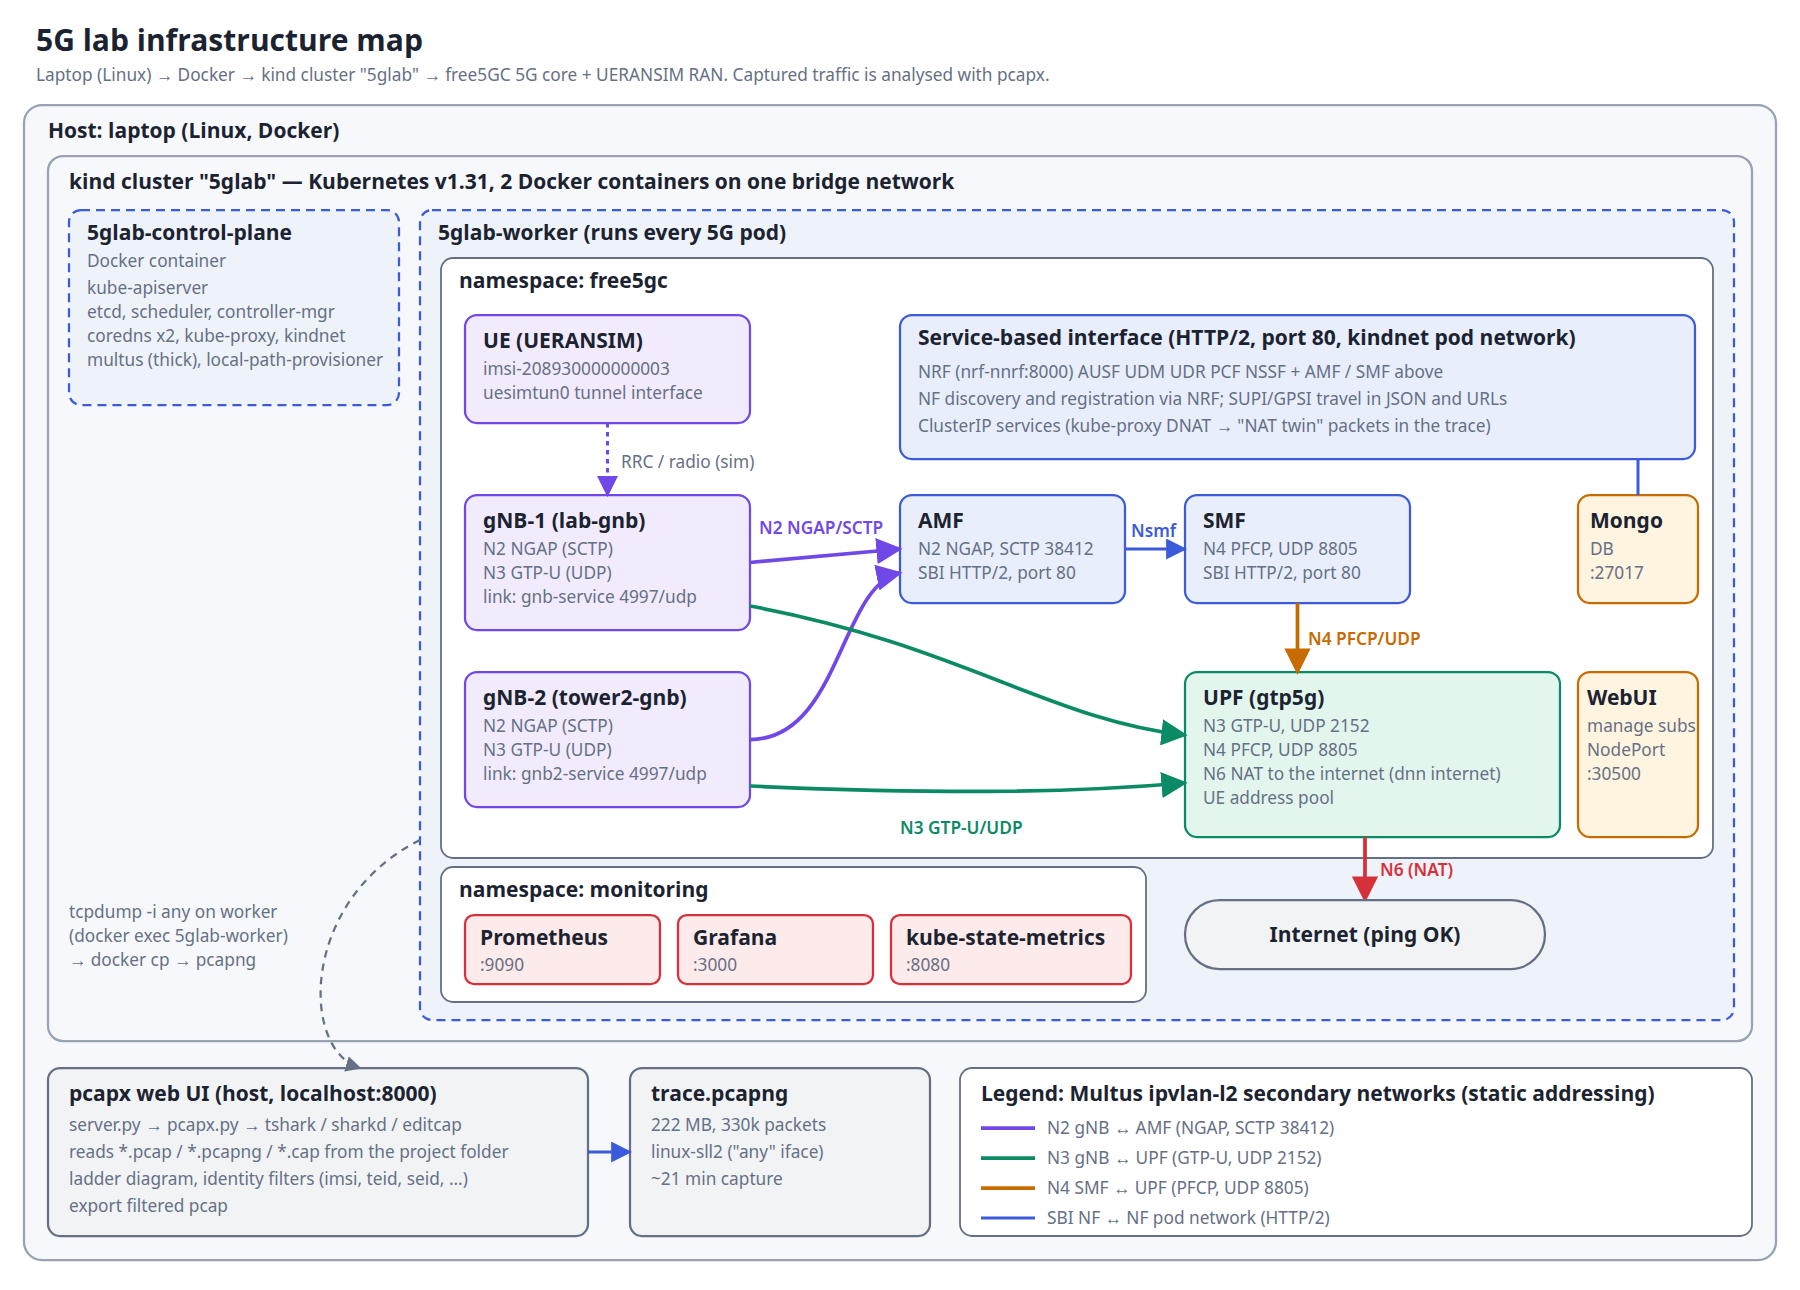
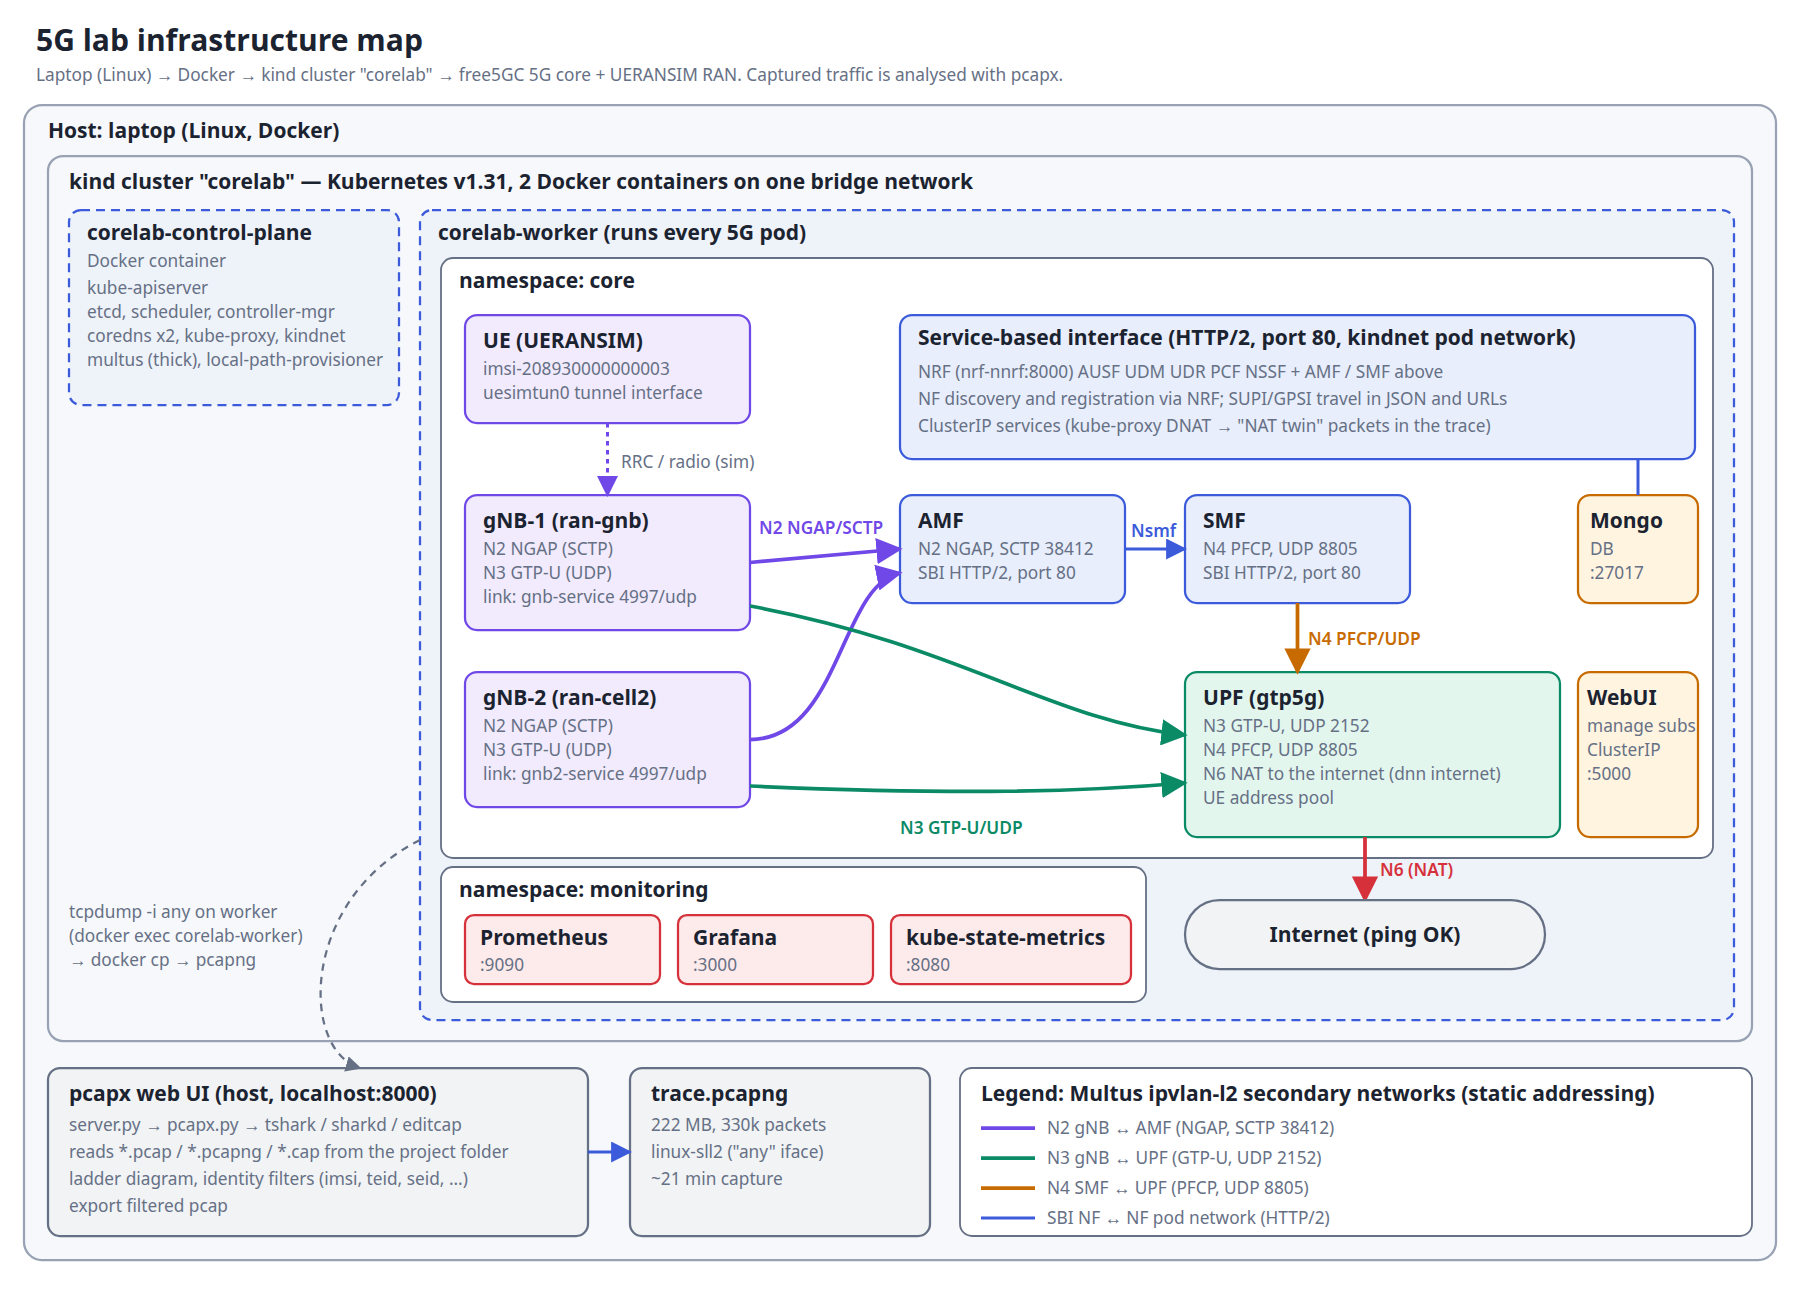
comm

diff --git a/README.md b/README.md
@@ -8,14 +8,18 @@ The captures come from a local 5G lab (free5GC + UERANSIM on a kind cluster). Th
 
 ![Infrastructure map](infra_map.png)
 
-Vector version: [`infra_map.svg`](infra_map.svg). The map contains no IP addresses. Every address in this README and
-in the screenshots is a dummy from the documentation ranges (`192.0.2.0/24`, `198.51.100.0/24`, `203.0.113.0/24`,
-`198.18.0.0/15`), not a real one.
+Vector version: [`infra_map.svg`](infra_map.svg).
+
+IP addresses and pod / deployment names in this README are the same as in the 5G lab project
+(`../5g lab/lab/README.md`, section *Addressing & exposure*): cluster `corelab`, namespace `core`, Helm releases
+`core` (pods `core-free5gc-<nf>-*`), `ran` (pods `ran-gnb-*`, `ran-ue-*`) and `ran-cell2` (second gNB).
+The commands below can be copied as they are. The only exception is the screenshots, where the IP addresses are
+replaced by dummy documentation-range addresses (`192.0.2.0/24`).
 
 ## Screenshots
 
 The captures below are a 222 MB, 330k-packet lab trace imported through the UI. IP addresses in the screenshots
-are replaced by dummy documentation-range addresses.
+are replaced by dummy documentation-range addresses (`192.0.2.x`), unlike the rest of this README.
 
 **1. Import.** Press **Import pcap…** (or drop the file on the page). The file is stored, selected in the drop-down,
 and ready to run.
@@ -95,7 +99,7 @@ Names must be plain file names (no sub-folders): the server rejects anything wit
 
 ### 2. Capture fresh traffic from the lab
 
-The lab runs in two Docker containers (`5glab-worker`, `5glab-control-plane`). Every 5G pod is on the worker,
+The lab runs in two Docker containers (`corelab-worker`, `corelab-control-plane`). Every 5G pod is on the worker,
 and the worker has `tcpdump`. Capturing on interface `any` there sees SBI (HTTP/2), N2 (NGAP), N3 (GTP-U),
 N4 (PFCP), MongoDB and the Kubernetes NAT (before/after kube-proxy) in one file.
 
@@ -103,11 +107,11 @@ N4 (PFCP), MongoDB and the Kubernetes NAT (before/after kube-proxy) in one file.
 cd /home/hele/Documents/Claude/whireshark
 
 # 60 second capture streamed straight to a file on the host
-docker exec 5glab-worker timeout -s INT 60 tcpdump -i any -s 0 -U -w - > lab_$(date +%Y%m%d_%H%M).pcap
+docker exec corelab-worker timeout -s INT 60 tcpdump -i any -s 0 -U -w - > lab_$(date +%Y%m%d_%H%M).pcap
 ```
 
 - While it runs, generate the traffic you want to look at, for example restart the UE so it registers and opens a
-  PDU session: `kubectl -n free5gc rollout restart deploy/ueransim-lab-ue`.
+  PDU session: `kubectl -n core rollout restart deploy/ran-ue`.
 - Stream to stdout (`-w -`) as above instead of writing a file in the node and using `docker cp`.
   The node's `/tmp` is a tmpfs, and `docker cp` cannot read it (`Could not find the file /tmp/...`).
 - Narrow the capture on the wire to keep files small, for example only the 5G control/user-plane protocols:
@@ -121,7 +125,7 @@ Most NF images have no `tcpdump`, so attach a debug container that shares the po
 (standard `kubectl debug` usage, not tried in this lab):
 
 ```bash
-kubectl -n free5gc debug -it deploy/free5gc-lab-free5gc-smf-smf --image=nicolaka/netshoot --target=smf -- \
+kubectl -n core debug -it deploy/core-free5gc-smf-smf --image=nicolaka/netshoot --target=smf -- \
   tcpdump -i any -s 0 -U -w - > smf.pcap
 ```
 
@@ -134,7 +138,7 @@ about 15 s). Later queries on the same file and pre-filter are instant. To keep 
 
 - Fill the **pre-filter** box in the UI (or `--pre` on the CLI) with a native Wireshark display filter.
   It is applied by `tshark` before parsing, so it is much cheaper than the pcapx filter:
-  `ip.addr==192.0.2.22 or sctp or pfcp or gtp`
+  `ip.addr==10.60.0.1 or sctp or pfcp or gtp`
 - Or cut the file down first:
   ```bash
   editcap -A "2026-09-24 10:11:00" -B "2026-09-24 10:12:00" capture.pcapng slice.pcapng   # time window
@@ -198,25 +202,74 @@ The server only binds to `localhost` and has no authentication. Do not expose it
 
 ## The lab
 
-Kubernetes cluster `5glab` (kind, v1.31): `5glab-control-plane` and `5glab-worker`. Namespaces: `free5gc`
-(NRF, AMF, SMF, UPF, AUSF, UDM, UDR, PCF, NSSF, WebUI, MongoDB, 2× gNB, UE), `monitoring` (Prometheus, Grafana, kube-state-metrics).
+Kubernetes cluster `corelab` (kind, v1.31): `corelab-control-plane` and `corelab-worker`. Namespaces: `core`
+(free5GC NFs from release `core`: NRF, AMF, SMF, UPF, AUSF, UDM, UDR, PCF, NSSF, WebUI, MongoDB; RAN from releases
+`ran` (gNB + UE) and `ran-cell2` (second gNB)), `monitoring` (Prometheus, Grafana, kube-state-metrics).
 
 | Interface | Network | Endpoints |
 |---|---|---|
-| SBI (HTTP/2, port 80) | kindnet pod network `192.0.2.0/24`, ClusterIP `198.51.100.0/24` | all NFs |
-| N2 (NGAP, SCTP 38412) | Multus ipvlan `203.0.113.8/29` | AMF `.9`, gNB-1 `.10`, gNB-2 `.11` |
-| N3 (GTP-U, UDP 2152) | Multus ipvlan `203.0.113.16/29` | UPF `.17`, gNB-2 `.18`, gNB-1 `.20` |
-| N4 (PFCP, UDP 8805) | Multus ipvlan `203.0.113.24/29` | UPF `.25`, SMF `.28` |
-| N6 | Multus ipvlan on the kind bridge | UPF `198.18.0.22`, NAT to the internet, UE pool `198.19.0.0/17` |
+| SBI (HTTP/2, port 80) | Pod CIDR `10.212.0.0/16`, Service (ClusterIP) CIDR `10.213.0.0/16` | all NFs |
+| N2 (NGAP, SCTP 38412) | Multus ipvlan `10.47.60.248/29` | AMF `.249`, gNB (`ran`) `.250`, cell2 gNB (`ran-cell2`) `.251` |
+| N3 (GTP-U, UDP 2152) | Multus ipvlan `10.47.60.232/29` | UPF `.233`, cell2 gNB `.234`, gNB `.236` |
+| N4 (PFCP, UDP 8805) | Multus ipvlan `10.47.60.240/29` | UPF `.241`, SMF `.244` |
+| N9 (ULCL only) | Multus ipvlan `10.47.60.224/29` | |
+| N6 | kind node network `corelab-net` `172.29.40.0/24` | UPF `172.29.40.200`, NAT to the internet, UE pool `10.60.0.0/17` (first UE `10.60.0.1`) |
 
-Handy access: WebUI NodePort `30500` (on the worker `198.18.0.2`), Grafana and Prometheus are ClusterIP
-(`kubectl -n monitoring port-forward svc/grafana 3000`).
+Nodes are `.2` / `.3` on `corelab-net`, gateway `.1`.
+
+Handy access: every Service is ClusterIP (no NodePorts). WebUI, Grafana and Prometheus are reached with
+`./scripts/09-open-grafana.sh` from the 5G lab project, which port-forwards to `127.0.0.1` (WebUI `:5000`,
+Grafana `:3000`, Prometheus `:9090`).
 
 ### Health check
 
 ```bash
-kubectl -n free5gc get pods                                                   # all Running, no restarts climbing
-kubectl -n free5gc logs deploy/ueransim-lab-ue | grep -E "Registration|PDU Session|uesimtun"
-kubectl -n free5gc exec deploy/ueransim-lab-ue -- ping -c 3 -I uesimtun0 <any-public-host>
+kubectl -n core get pods                                                   # all Running, no restarts climbing
+kubectl -n core logs deploy/ran-ue | grep -E "Registration|PDU Session|uesimtun"
+kubectl -n core exec deploy/ran-ue -- ping -c 3 -I uesimtun0 <any-public-host>
 ```
 
+## Troubleshooting: SMF and UPF in CrashLoopBackOff after a reboot
+
+Seen on 2026-09-24 (the lab had been rebooted the day before).
+
+**Symptoms**
+
+```text
+SMF: [ERRO][SMF][PFCP] Failed to listen: listen udp 10.47.60.244:8805: bind: cannot assign requested address
+UPF: UPF Cli Run Error: open Gtp5g: open link: listen: listen udp4 10.47.60.233:2152: bind: cannot assign requested address
+```
+
+**Cause.** N2, N3, N4 and N6 are secondary interfaces attached by Multus when a pod sandbox is created.
+After the host reboot the kubelet recreated the sandboxes with only `eth0` (kindnet); the Multus attach did
+not happen. The pods therefore had no `10.47.60.x` address to bind to. Clues: `kubectl exec ... ip addr` shows only
+`eth0`, and the pod annotation `k8s.v1.cni.cncf.io/network-status` still lists old addresses. AMF was affected too
+(no `n2`), it just did not crash.
+
+**Fix.** Recreate the pods so Multus attaches the interfaces, in this order (core first, RAN after the AMF listens):
+
+```bash
+kubectl -n core rollout restart deploy/core-free5gc-upf-upf deploy/core-free5gc-smf-smf deploy/core-free5gc-amf-amf
+kubectl -n core rollout status  deploy/core-free5gc-amf-amf
+# wait until the AMF log says "Listen on 10.47.60.249:38412", then:
+kubectl -n core delete pod -l component=gnb                                # recreated by their deployments, see gotcha below
+kubectl -n core rollout restart deploy/ran-ue
+```
+
+**Gotchas hit while fixing it**
+
+- **Start order.** gNBs started before the AMF listened, got `SCTP could not connect: Connection refused`, and never
+  retried, so the UE saw only barred cells (`Cell selection failure`). Restart the gNBs after the AMF is up.
+- **Static IPs and rolling updates.** The gNB / UPF pods use fixed ipvlan addresses. A rolling update starts the new
+  pod while the old one still holds the IP, and the new one hangs in `Init` with
+  `failed to add IP addr ... address already in use`. Delete the old pod (or use `kubectl rollout undo`), or better set
+  `strategy: type: Recreate` on those deployments (in the Helm values, so the change is not lost on upgrade).
+
+**Verify.** `SMF` logs `Received PFCP Association Setup Accepted Response from UPF[10.47.60.241]`, the gNBs log
+`NG Setup procedure is successful`, and the UE logs `PDU Session establishment is successful` with `uesimtun0` up.
+
+## Notes and limits
+
+- The correlation is heuristic. A "caused by" link in the diagram means a call started while another call to the same server was still open, not a proven causal chain.
+- Only cleartext HTTP/2 (h2c, as in this lab) is decoded. TLS-encrypted SBI needs the keys in Wireshark first.
+- A capture on interface `any` shows some packets twice (before and after kube-proxy NAT). pcapx merges them (rows marked `twin`).
